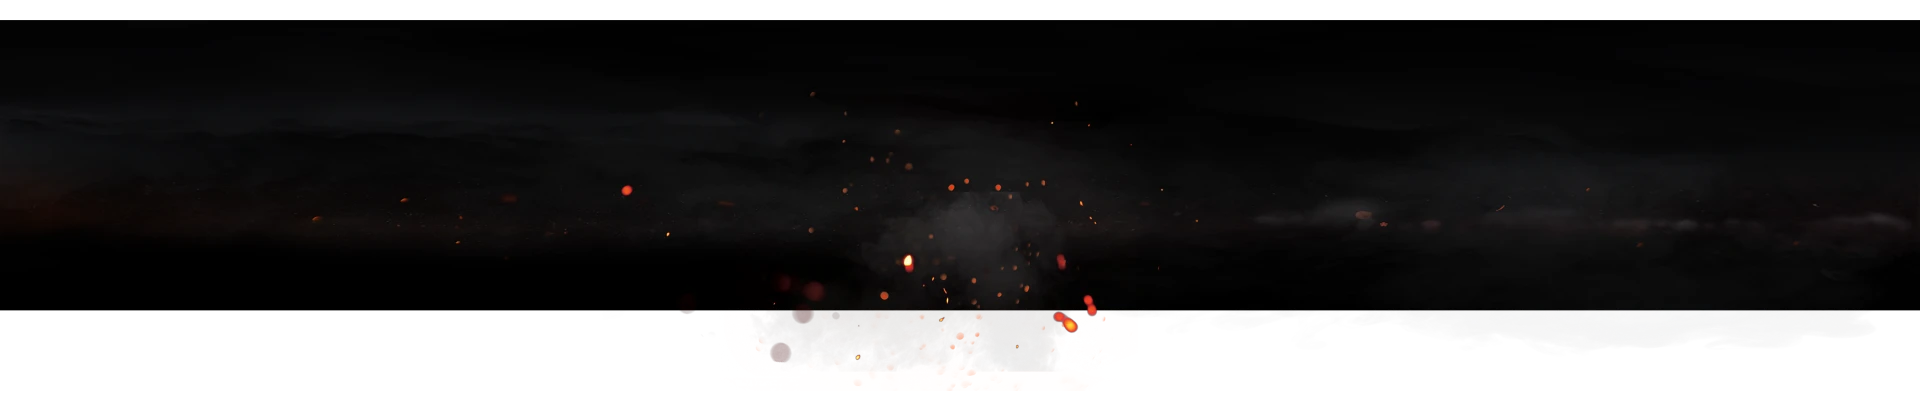
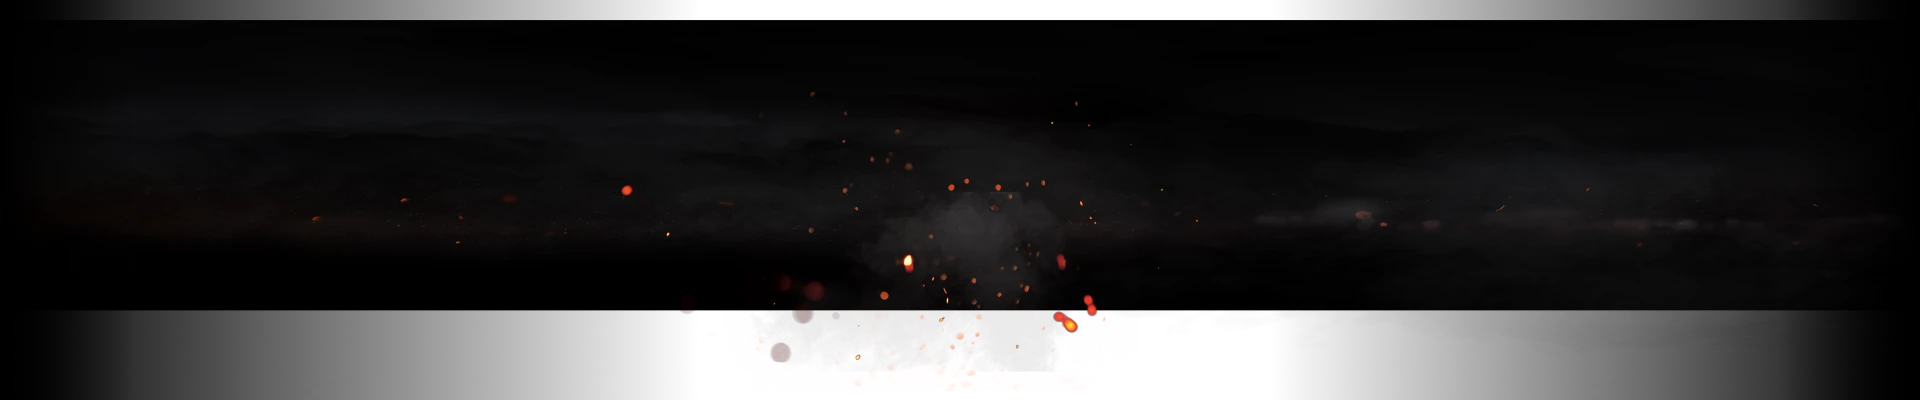
footer fix

diff --git a/website/src/components/footer/footer.scss b/website/src/components/footer/footer.scss
@@ -4,7 +4,7 @@
     padding-top: 60px;
     background-color: #000000;
     background-image: url(/img/home-2023/footer-bg.webp);
-    background-repeat: repeat-x;
+    background-repeat: no-repeat;
     background-position: top 60px center;
 
     @media (max-width: 800px){
